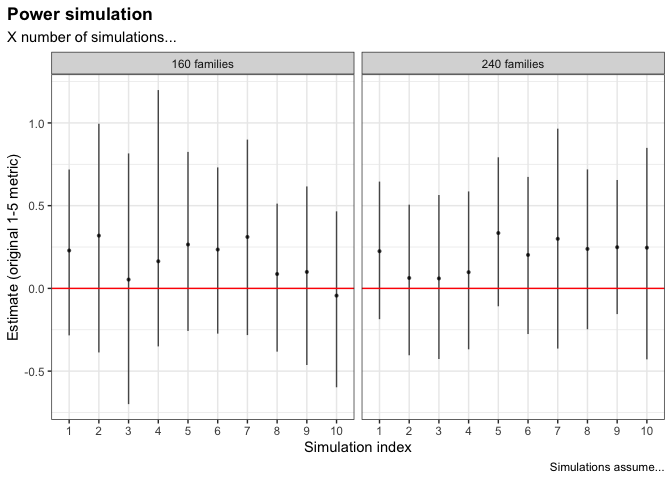
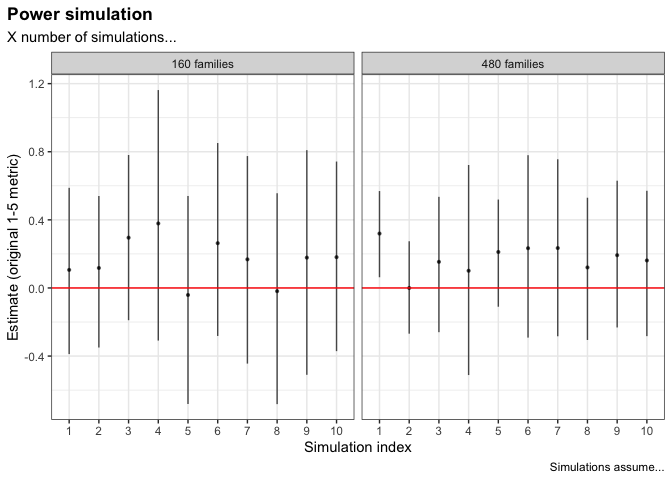
added random intercepts, fixed formula

diff --git a/simulate.md b/simulate.md
@@ -61,7 +61,6 @@ I’m unsure about:
 #' @param u0g_sd random intercept SD for groups
 #' @param u0f_sd random intercept SD for families
 #' @param u0m_sd random intercept SD for members
-#' @param u0t_sd random intercept SD for time
 #' @param sigma_sd error term
 #' @param attrition_post_trt post attrition in treatment arm
 #' @param attrition_post_ctr post attrition in control arm
@@ -79,7 +78,6 @@ I’m unsure about:
                   u0g_sd = 0,   
                   u0f_sd = 0,   
                   u0m_sd = 0,   
-                  u0t_sd = 0,   
                   sigma_sd = 0,
                   attrition_post_trt = 0,
                   attrition_post_ctr = 0,
@@ -87,6 +85,8 @@ I’m unsure about:
                   ) {
     
 # calculate nesting parameters
+# this is ugly because I'm leaving it open that parameters could be fixed
+# or could vary
   if (grp_per_fac_lo==grp_per_fac_hi) {
     n_groups_per_facilitator <- grp_per_fac_lo
     n_groups <- n_groups_per_facilitator * n_facilitator
@@ -144,7 +144,6 @@ I’m unsure about:
     add_ranef("group", u0g = u0g_sd) %>%
     add_ranef("family", u0f = u0f_sd) %>%
     add_ranef("member", u0m = u0m_sd) %>%
-    add_ranef("time", u0t = u0t_sd) %>%
     add_ranef(sigma = sigma_sd) %>%
   # set group/facilitator random effects to 0 for control
     mutate(across(c(u0l, u0g), ~ case_when(arm == "control" ~ 0, 
@@ -155,7 +154,7 @@ I’m unsure about:
   # TEMPORARY: Limit to 1 member per family
     distinct(family, time, .keep_all = TRUE) %>%
   # calculate DV
-    mutate(dv = b0 + u0l + u0g + u0f + u0m + u0t + 
+    mutate(dv = b0 + u0l + u0g + u0f + u0m +  
              (b1 * treatment * post) + sigma) %>%
   # reshape
     select(member, time, family, treatment, group, facilitator, dv) %>%
@@ -187,6 +186,15 @@ I’m unsure about:
   }
 ```
 
+## How should we set the random effects for simulating data?
+
+-   Time (pre/post) is nested in family members
+-   Family members are nested in families
+-   Families are nested in groups (only relevant for post data for the
+    families in the treatment arm)
+-   Groups are nested in facilitators (only relevant for post data for
+    the families in the treatment arm)
+
 ## Check the function
 
 Let’s imagine that the dv is a composite scale, specifically the mean of
@@ -213,12 +221,11 @@ I’m unsure about:
                 mem_per_fam_lo = 2, mem_per_fam_hi = 5,
               # model parameters
                 b0 = 2,             # grand mean
-                b1 = 0.21,             # treatment effect on raw metric
-                u0l_sd = 0,   
-                u0g_sd = 0,   
-                u0f_sd = 0,         # TEMP: set to 0 to look at 1 member/fam
-                u0m_sd = 0,         # TEMP: set to 0 to look at 1 member/fam
-                u0t_sd = 0,   
+                b1 = 0.21,          # treatment effect on raw metric
+                u0l_sd = 0.0425,   
+                u0g_sd = 0.085,   
+                u0f_sd = 0,      # 0.17 TEMP: set to 0 to look at 1 member/fam
+                u0m_sd = 0.34,    
                 sigma_sd = .68)
 ```
 
@@ -230,16 +237,16 @@ I’m unsure about:
     ## # A tibble: 160 × 7
     ##    treatment member family group facilitator y_pre y_post
     ##        <dbl>  <dbl>  <dbl> <dbl>       <dbl> <dbl>  <dbl>
-    ##  1         1      1      1     1           1  1.20   2.59
-    ##  2         1      6      2     1           1  2.66   3.32
-    ##  3         1     10      3     1           1  2.00   3.42
-    ##  4         1     13      4     1           1  1.19   1.87
-    ##  5         1     30      9     3           1  2.65   3.88
-    ##  6         1     33     10     3           1  1.87   2.59
-    ##  7         1     37     11     3           1  2.51   2.45
-    ##  8         1     41     12     3           1  1.52   1.92
-    ##  9         1     56     17     5           2  2.40   1.79
-    ## 10         1     61     18     5           2  1.40   2.67
+    ##  1         1      1      1     1           1 0.667   2.61
+    ##  2         1      6      2     1           1 2.51    3.13
+    ##  3         1     10      3     1           1 1.64    1.41
+    ##  4         1     13      4     1           1 2.44    2.18
+    ##  5         1     30      9     3           1 2.00    1.34
+    ##  6         1     33     10     3           1 2.63    3.10
+    ##  7         1     37     11     3           1 1.35    1.81
+    ##  8         1     41     12     3           1 2.17    2.84
+    ##  9         1     56     17     5           2 1.99    3.41
+    ## 10         1     61     18     5           2 0.945   1.85
     ## # … with 150 more rows
 
 ``` r
@@ -258,7 +265,7 @@ allocation of families to arm.
 
 ``` r
   m <- brm(y_post ~ 0 + Intercept + treatment + y_pre + 
-               (1 | group) + (1 | facilitator),
+               (1 | facilitator/group),
              # prior = c(prior(normal(0, 2), class = b),
              #           prior(student_t(3, 1, 1), class = sigma)),
              data = df, 
@@ -295,10 +302,10 @@ CI (95%)
 Intercept
 </td>
 <td style=" padding:0.2cm; text-align:left; vertical-align:top; text-align:center;  ">
-2.07
+1.37
 </td>
 <td style=" padding:0.2cm; text-align:left; vertical-align:top; text-align:center;  ">
-1.45 – 2.65
+0.66 – 2.15
 </td>
 </tr>
 <tr>
@@ -306,10 +313,10 @@ Intercept
 treatment
 </td>
 <td style=" padding:0.2cm; text-align:left; vertical-align:top; text-align:center;  ">
-0.29
+0.20
 </td>
 <td style=" padding:0.2cm; text-align:left; vertical-align:top; text-align:center;  ">
--0.29 – 0.88
+-0.61 – 0.89
 </td>
 </tr>
 <tr>
@@ -317,10 +324,10 @@ treatment
 y pre
 </td>
 <td style=" padding:0.2cm; text-align:left; vertical-align:top; text-align:center;  ">
--0.03
+0.29
 </td>
 <td style=" padding:0.2cm; text-align:left; vertical-align:top; text-align:center;  ">
--0.19 – 0.13
+0.13 – 0.45
 </td>
 </tr>
 <tr>
@@ -333,7 +340,7 @@ Random Effects
 σ<sup>2</sup>
 </td>
 <td style=" padding:0.2cm; text-align:left; vertical-align:top; padding-top:0.1cm; padding-bottom:0.1cm; text-align:left;" colspan="2">
-0.55
+0.67
 </td>
 <tr>
 <td style=" padding:0.2cm; text-align:left; vertical-align:top; text-align:left; padding-top:0.1cm; padding-bottom:0.1cm;">
@@ -344,17 +351,17 @@ Random Effects
 </td>
 <tr>
 <td style=" padding:0.2cm; text-align:left; vertical-align:top; text-align:left; padding-top:0.1cm; padding-bottom:0.1cm;">
-τ<sub>00</sub> <sub>group</sub>
+τ<sub>00</sub> <sub>facilitator:group</sub>
 </td>
 <td style=" padding:0.2cm; text-align:left; vertical-align:top; padding-top:0.1cm; padding-bottom:0.1cm; text-align:left;" colspan="2">
-0.02
+0.03
 </td>
 <tr>
 <td style=" padding:0.2cm; text-align:left; vertical-align:top; text-align:left; padding-top:0.1cm; padding-bottom:0.1cm;">
 ICC
 </td>
 <td style=" padding:0.2cm; text-align:left; vertical-align:top; padding-top:0.1cm; padding-bottom:0.1cm; text-align:left;" colspan="2">
-0.08
+0.09
 </td>
 <tr>
 <td style=" padding:0.2cm; text-align:left; vertical-align:top; text-align:left; padding-top:0.1cm; padding-bottom:0.1cm;">
@@ -383,7 +390,7 @@ Observations
 Marginal R<sup>2</sup> / Conditional R<sup>2</sup>
 </td>
 <td style=" padding:0.2cm; text-align:left; vertical-align:top; padding-top:0.1cm; padding-bottom:0.1cm; text-align:left;" colspan="2">
-0.047 / 0.080
+0.107 / 0.134
 </td>
 </tr>
 </table>
@@ -408,7 +415,6 @@ Create a new function that simulates the data and fits the model.
 #' @param u0g_sd random intercept SD for groups
 #' @param u0f_sd random intercept SD for families
 #' @param u0m_sd random intercept SD for members
-#' @param u0t_sd random intercept SD for time
 #' @param sigma_sd error term
 #' @param attrition_post_trt post attrition in treatment arm
 #' @param attrition_post_ctr post attrition in control arm
@@ -434,6 +440,8 @@ Create a new function that simulates the data and fits the model.
                      ) {
     
 # calculate nesting parameters
+# this is ugly because I'm leaving it open that parameters could be fixed
+# or could vary
   if (grp_per_fac_lo==grp_per_fac_hi) {
     n_groups_per_facilitator <- grp_per_fac_lo
     n_groups <- n_groups_per_facilitator * n_facilitator
@@ -491,7 +499,6 @@ Create a new function that simulates the data and fits the model.
     add_ranef("group", u0g = u0g_sd) %>%
     add_ranef("family", u0f = u0f_sd) %>%
     add_ranef("member", u0m = u0m_sd) %>%
-    add_ranef("time", u0t = u0t_sd) %>%
     add_ranef(sigma = sigma_sd) %>%
   # set group/facilitator random effects to 0 for control
     mutate(across(c(u0l, u0g), ~ case_when(arm == "control" ~ 0, 
@@ -499,7 +506,7 @@ Create a new function that simulates the data and fits the model.
   # TEMPORARY: Limit to 1 member per family
     distinct(family, time, .keep_all = TRUE) %>%
   # calculate DV
-    mutate(dv = b0 + u0l + u0g + u0f + u0m + u0t + 
+    mutate(dv = b0 + u0l + u0g + u0f + u0m + 
              (b1 * treatment * post) + sigma) %>%
   # reshape
     select(member, time, family, treatment, group, facilitator, dv) %>%
@@ -530,7 +537,7 @@ Create a new function that simulates the data and fits the model.
     select(-p, -missing)
   
 # fit <- brm(y_post ~ 0 + Intercept + treatment + y_pre +
-#              (1 | group) + (1 | facilitator),
+#              (1 | facilitator/group),
 #            prior = c(prior(normal(0, 2), class = b),
 #                      prior(student_t(3, 1, 1), class = sigma)),
 #            data = df,
@@ -547,8 +554,8 @@ Create a new function that simulates the data and fits the model.
 ```
 
 It’s time to simulate with different combinations of scenarios and
-parameters. Just doing 10 and only varying number of facilitators (a key
-driver of sample size in this setup) to test.
+parameters. Just doing 10 runs and only varying number of facilitators
+(a key driver of sample size in this setup) to test.
 
 ``` r
   x <- crossing(
@@ -556,7 +563,7 @@ driver of sample size in this setup) to test.
       rep = 1:10,
     # REMAINING CAN BE FIXED (ONE VALUE) OR A RANGE ------------------
     # number of facilitators
-      n_facilitator = c(10, 15), 
+      n_facilitator = c(10, 30), 
     # assume facilitators have 4 groups
       grp_per_fac_lo = 4, grp_per_fac_hi = 4,
     # assume groups have 4 families
@@ -565,13 +572,12 @@ driver of sample size in this setup) to test.
       mem_per_fam_lo = 2, mem_per_fam_hi = 5,
     # model parameters
       b0 = 2,             # grand mean
-      b1 = 0.21,          # treatment effect
-      u0l_sd = 0,   
-      u0g_sd = 0,   
-      u0f_sd = 0,         # TEMP: set to 0 to look at 1 member/fam
-      u0m_sd = 0,         # TEMP: set to 0 to look at 1 member/fam
-      u0t_sd = 0,   
-      sigma_sd = 0.68
+      b1 = 0.21,          # treatment effect on raw metric
+      u0l_sd = 0.0425,   
+      u0g_sd = 0.085,   
+      u0f_sd = 0,      # 0.17 TEMP: set to 0 to look at 1 member/fam
+      u0m_sd = 0.34,    
+      sigma_sd = .68
   ) %>%
     mutate(analysis = pmap(., simfit)) %>%
     unnest(analysis)
@@ -582,32 +588,32 @@ driver of sample size in this setup) to test.
     filter(term=="treatment")
 ```
 
-    ## # A tibble: 20 × 35
+    ## # A tibble: 20 × 34
     ##      rep n_facilitator grp_per_fac_lo grp_per_fac_hi fam_per_gro_lo
     ##    <int>         <dbl>          <dbl>          <dbl>          <dbl>
     ##  1     1            10              4              4              4
-    ##  2     1            15              4              4              4
+    ##  2     1            30              4              4              4
     ##  3     2            10              4              4              4
-    ##  4     2            15              4              4              4
+    ##  4     2            30              4              4              4
     ##  5     3            10              4              4              4
-    ##  6     3            15              4              4              4
+    ##  6     3            30              4              4              4
     ##  7     4            10              4              4              4
-    ##  8     4            15              4              4              4
+    ##  8     4            30              4              4              4
     ##  9     5            10              4              4              4
-    ## 10     5            15              4              4              4
+    ## 10     5            30              4              4              4
     ## 11     6            10              4              4              4
-    ## 12     6            15              4              4              4
+    ## 12     6            30              4              4              4
     ## 13     7            10              4              4              4
-    ## 14     7            15              4              4              4
+    ## 14     7            30              4              4              4
     ## 15     8            10              4              4              4
-    ## 16     8            15              4              4              4
+    ## 16     8            30              4              4              4
     ## 17     9            10              4              4              4
-    ## 18     9            15              4              4              4
+    ## 18     9            30              4              4              4
     ## 19    10            10              4              4              4
-    ## 20    10            15              4              4              4
-    ## # … with 30 more variables: fam_per_gro_hi <dbl>, mem_per_fam_lo <dbl>,
+    ## 20    10            30              4              4              4
+    ## # … with 29 more variables: fam_per_gro_hi <dbl>, mem_per_fam_lo <dbl>,
     ## #   mem_per_fam_hi <dbl>, b0 <dbl>, b1 <dbl>, u0l_sd <dbl>, u0g_sd <dbl>,
-    ## #   u0f_sd <dbl>, u0m_sd <dbl>, u0t_sd <dbl>, sigma_sd <dbl>, term <chr>,
+    ## #   u0f_sd <dbl>, u0m_sd <dbl>, sigma_sd <dbl>, term <chr>,
     ## #   original_term <chr>, variable <chr>, var_label <chr>, var_class <int>,
     ## #   var_type <chr>, var_nlevels <int>, contrasts <chr>, contrasts_type <chr>,
     ## #   reference_row <lgl>, label <chr>, n_obs <dbl>, effect <chr>,
